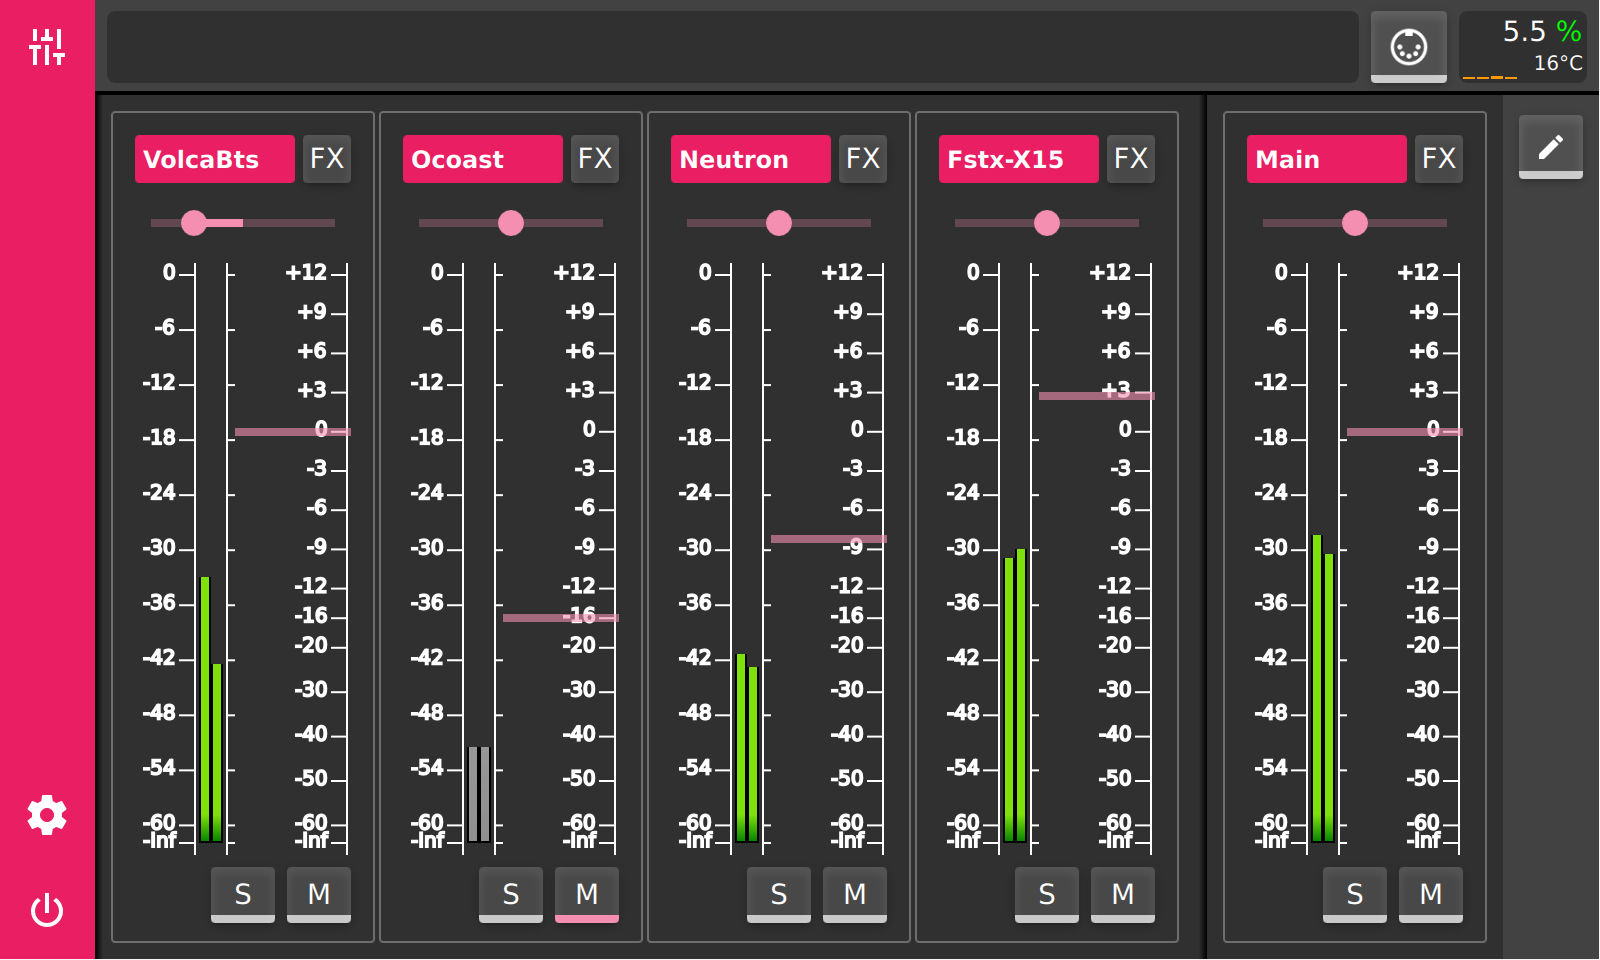
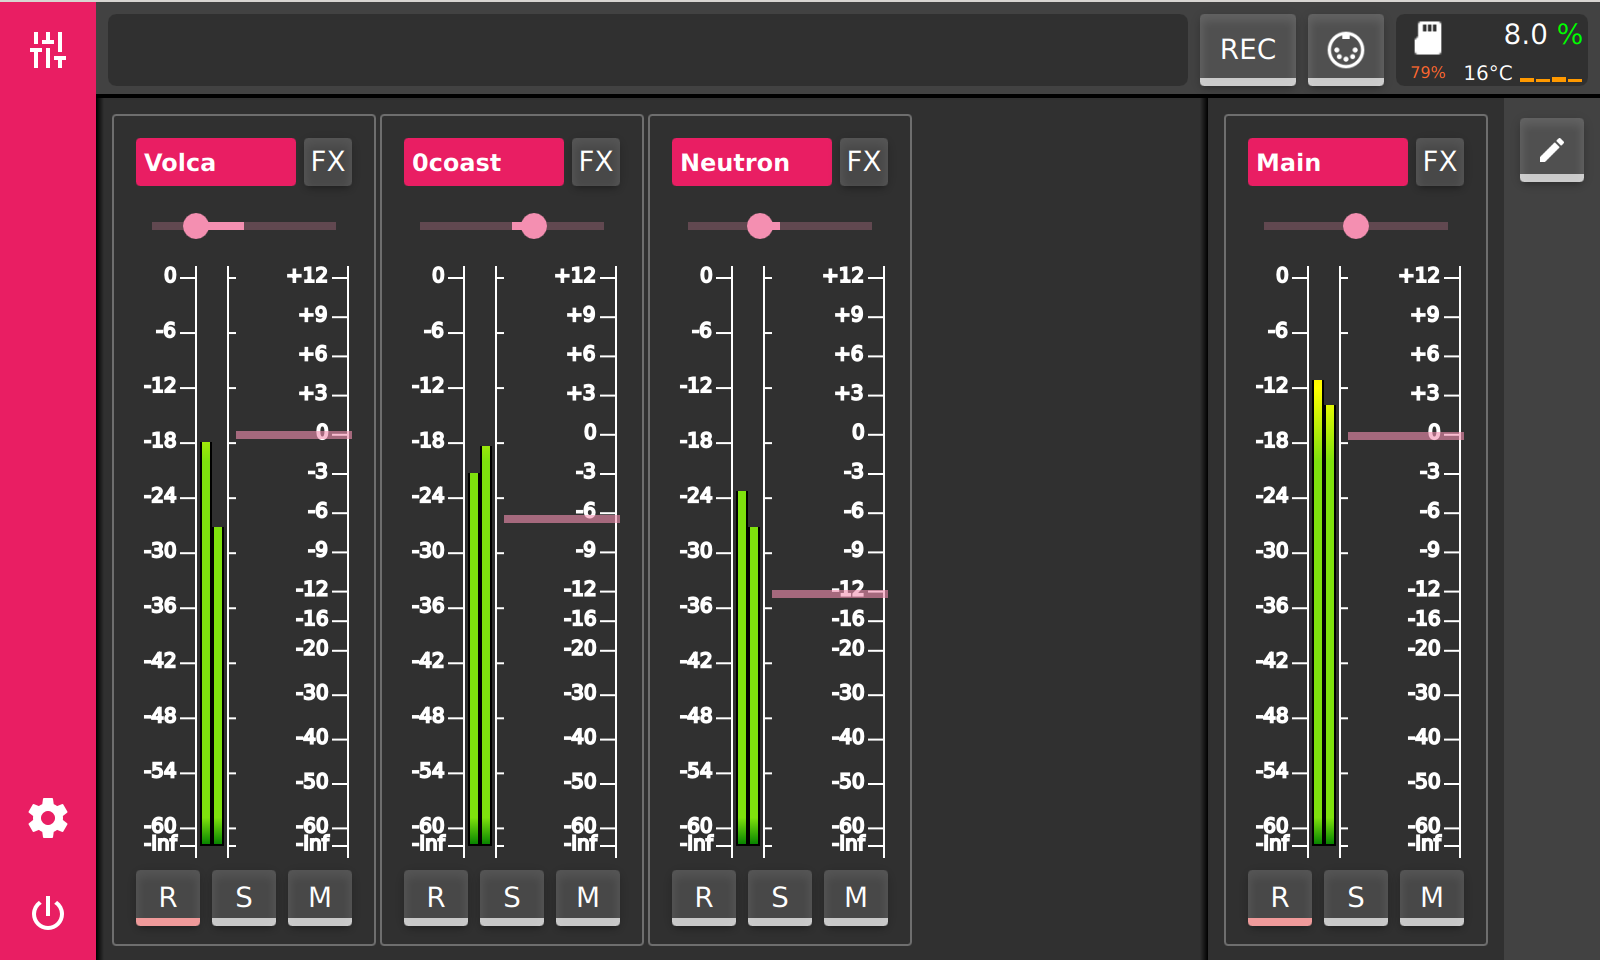
Update screenshots for v0.7.0 release

diff --git a/source/conf.py b/source/conf.py
@@ -18,11 +18,11 @@
 # -- Project information -----------------------------------------------------
 
 project = 'PieJam'
-copyright = '2020, Dimitrij Kotrev'
+copyright = '2020-2021, Dimitrij Kotrev'
 author = 'Dimitrij Kotrev'
 
 # The full version, including alpha/beta/rc tags
-release = 'v0.6.0'
+release = 'v0.7.0'
 
 
 # -- General configuration ---------------------------------------------------

diff --git a/source/index.rst b/source/index.rst
@@ -28,6 +28,7 @@ Features
 * Support for LADSPA plugins
 * Parameter control through MIDI CC
 * Oscilloscope and Spectrum Analyzer
+* Recorder
 
 User interface
 --------------
